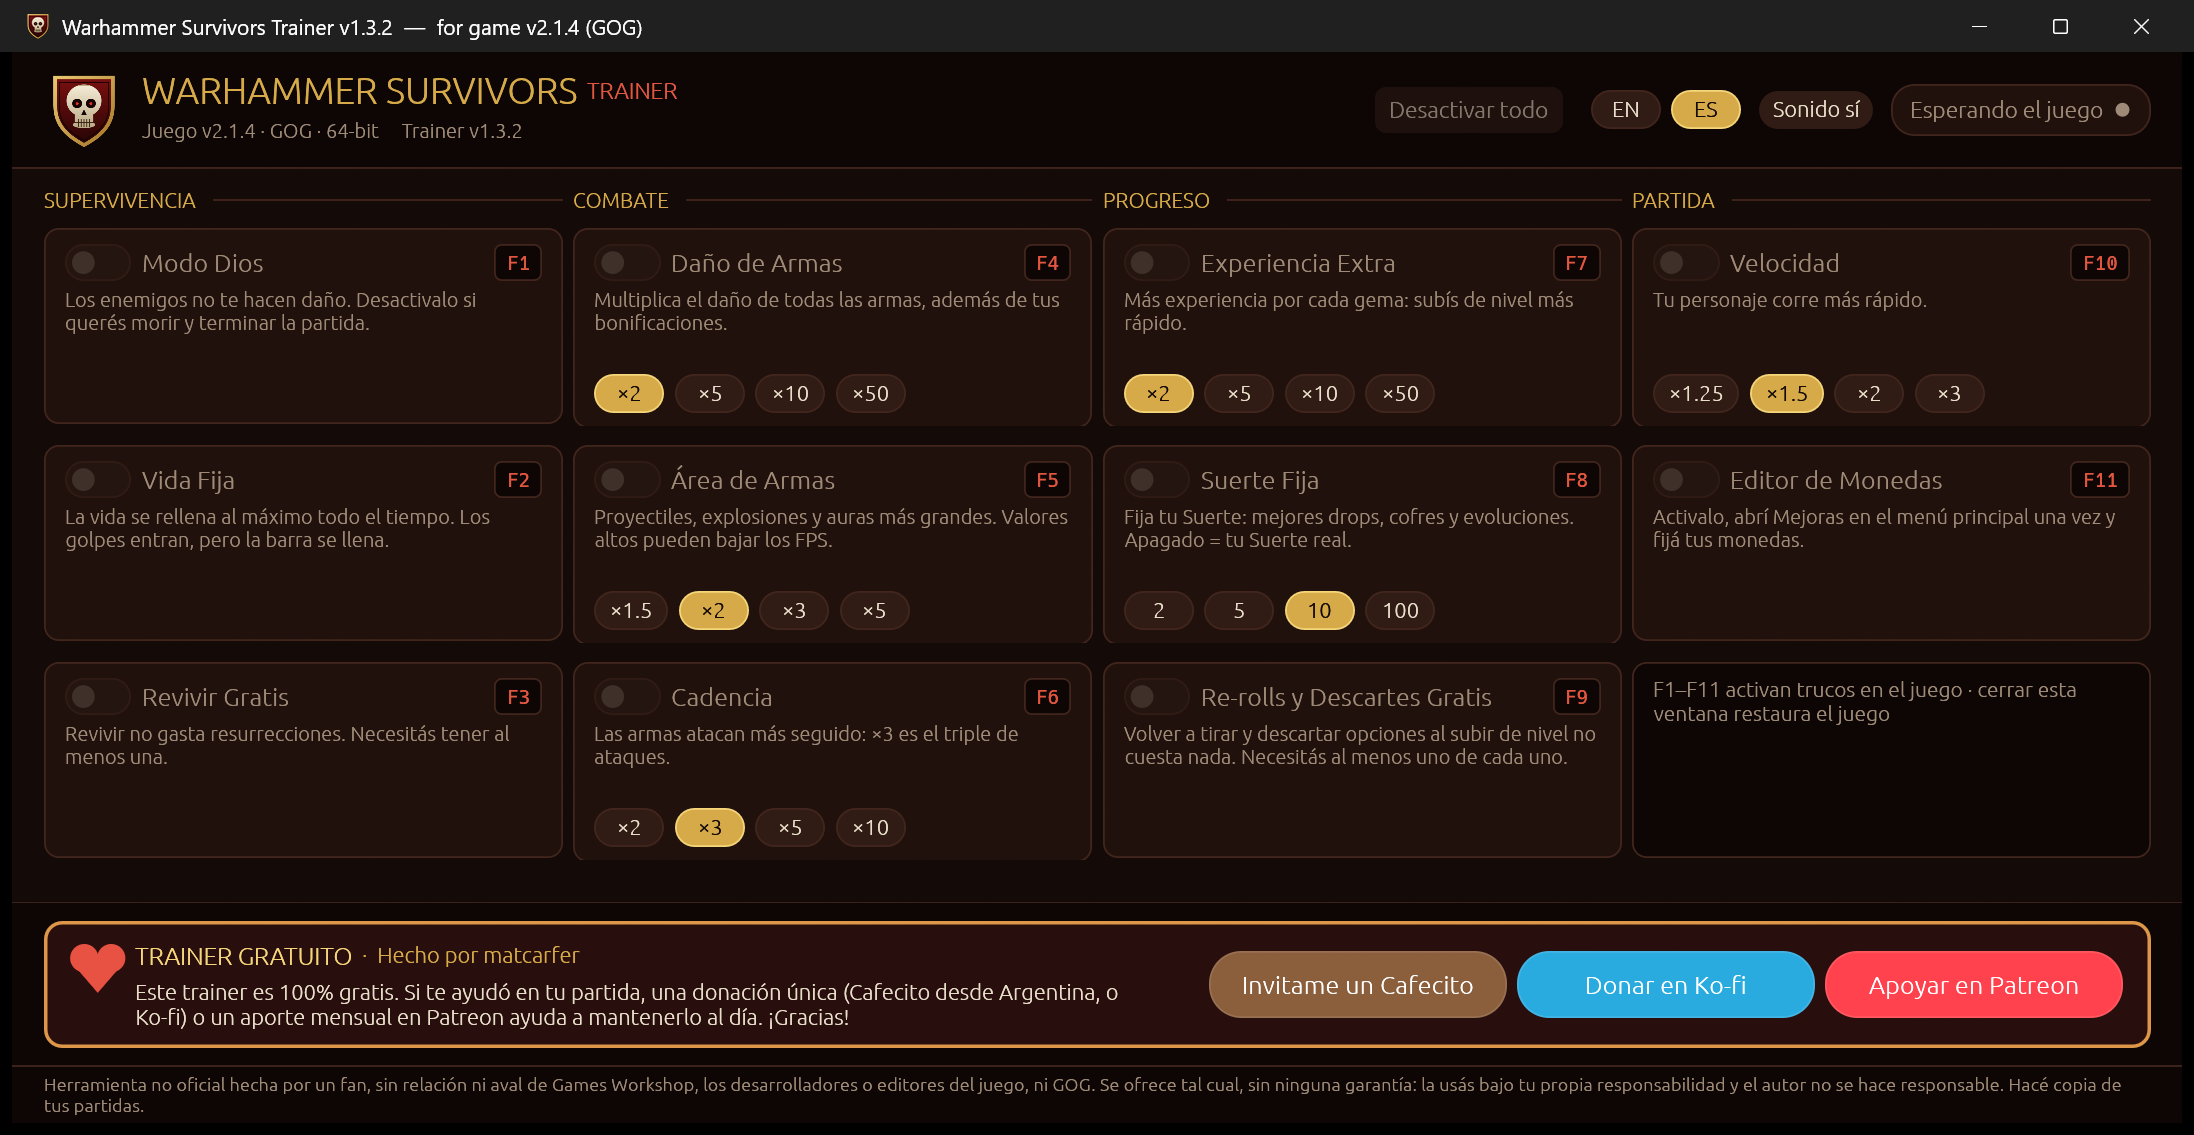
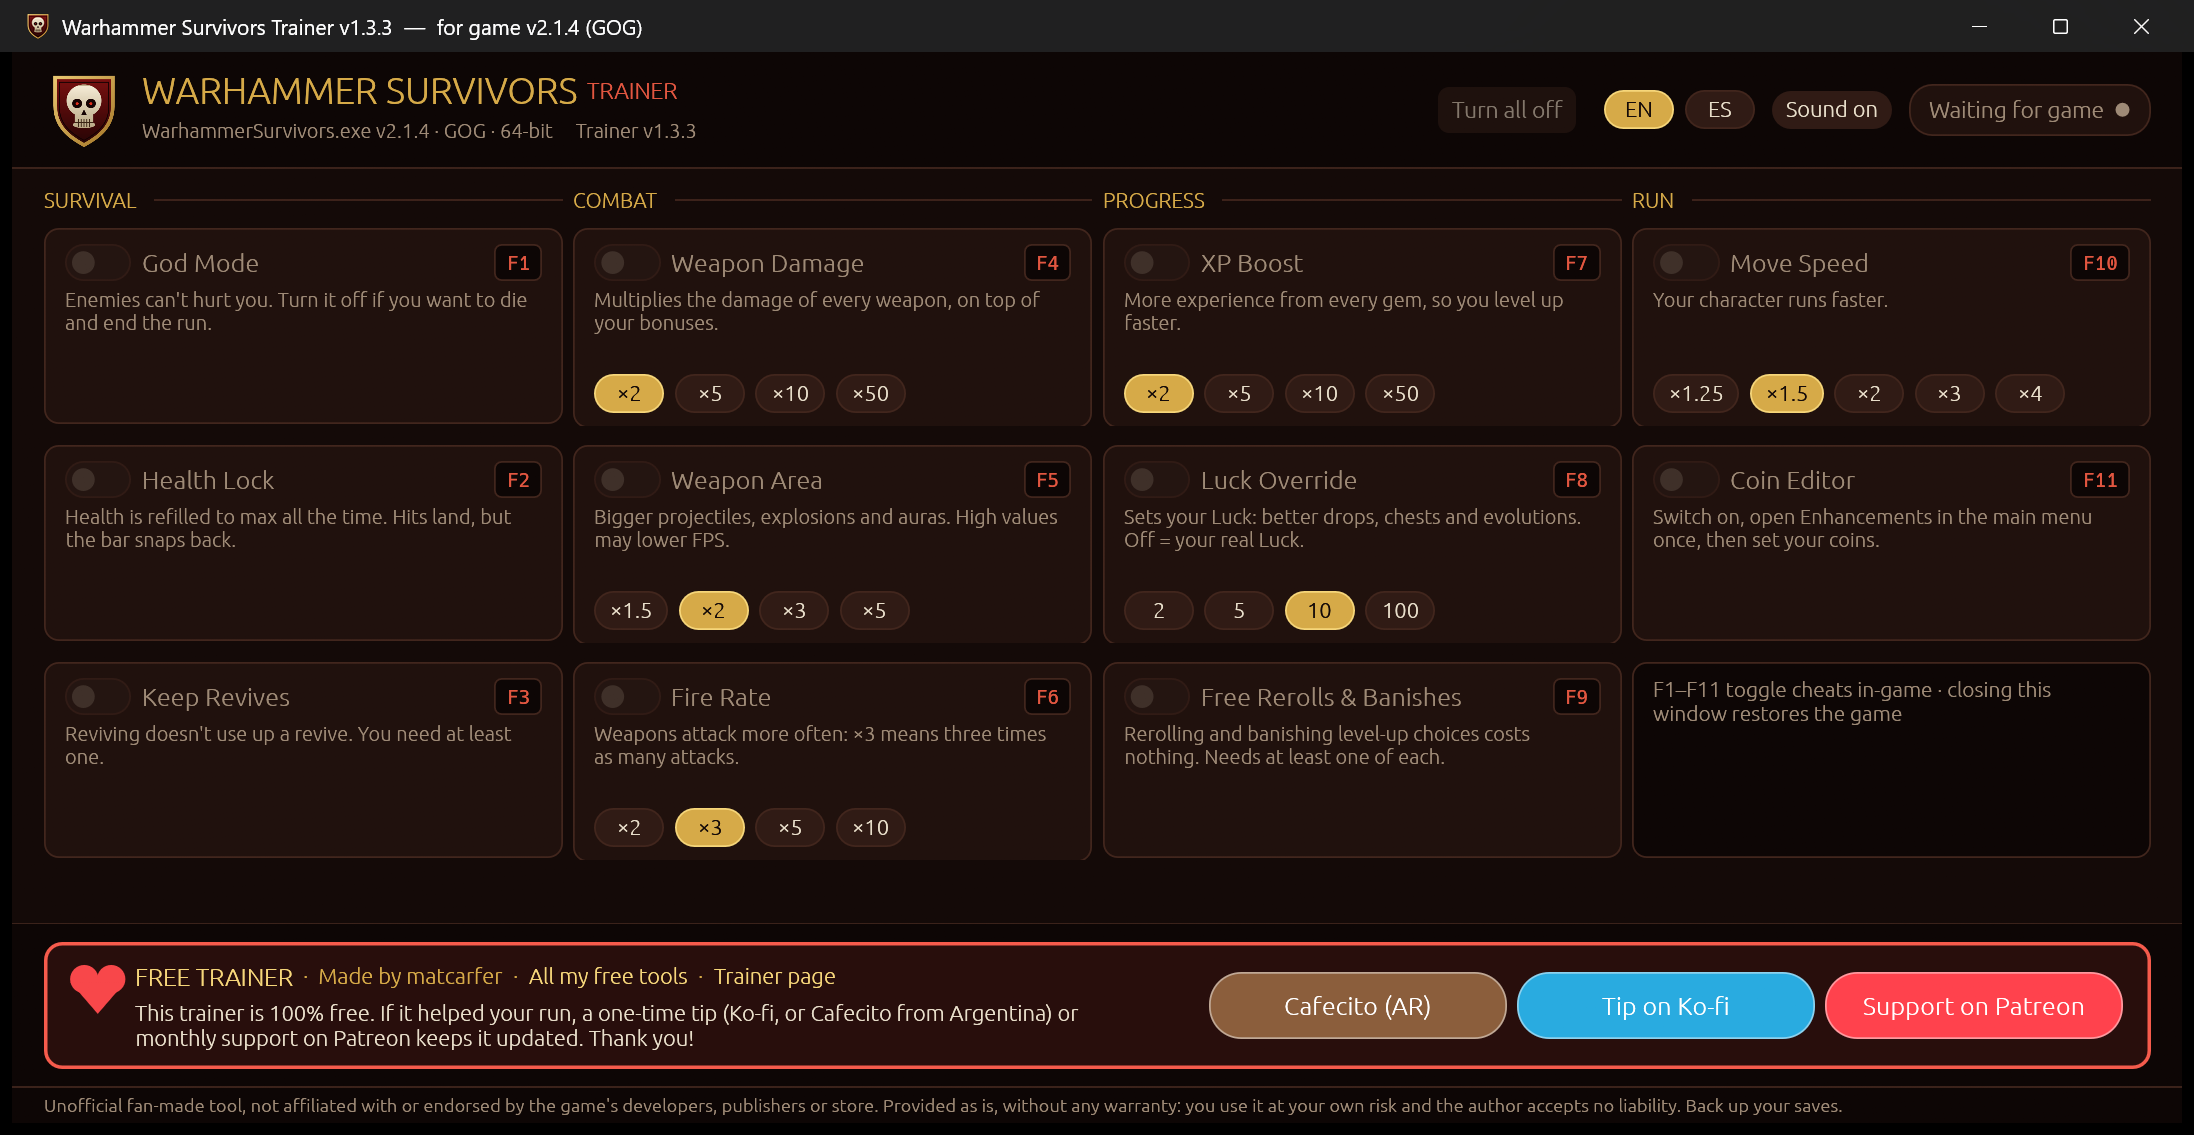
Warhammer Survivors Trainer v1.3.3

diff --git a/README.md b/README.md
@@ -6,11 +6,11 @@
 
 <p align="center">
   <b>Free downloads:</b> Android apps (APK) · Windows utilities · PC game trainers<br>
-  <sub>Descargas gratis: apps para Android (APK) · utilidades para Windows · trainers para juegos de PC</sub>
+  <b>Descargas gratis:</b> apps para Android (APK) · utilidades para Windows · trainers para juegos de PC
 </p>
 
 <p align="center">
-  <a href="https://github.com/matcarfer/library/releases"><b>⬇ All releases</b></a>
+  <a href="https://github.com/matcarfer/library/releases"><b>⬇ All releases · Todas las versiones</b></a>
   &nbsp;·&nbsp;
   <a href="https://cafecito.app/matcarfer"><b>☕ Cafecito (AR)</b></a>
   &nbsp;·&nbsp;
@@ -19,85 +19,116 @@
   <a href="https://www.patreon.com/matcarfer"><b>❤ Patreon</b></a>
 </p>
 
-Everything here is **free**. Each item has its own release: open it, download the file
-under **Assets**, and check the SHA-256 listed in the release notes.
+<p align="center">
+  <a href="#english">English</a> · <a href="#español">Español</a>
+</p>
+
+Each link below downloads the **latest version directly**. Every release lists its
+**SHA-256** and a **VirusTotal** report.<br>
+<sub>Cada link descarga **directamente la última versión**. Cada versión indica su
+**SHA-256** y un informe de **VirusTotal**.</sub>
 
 ---
 
-## 📱 Android apps (APK)
+## 📱 Android apps (APK) · Apps para Android
 
-| App | Version | Download | Description |
+| App | Version · Versión | Download · Descarga | Description · Descripción |
 |---|---|---|---|
-| *Coming soon* | | | |
+| *Coming soon · Próximamente* | | | |
 
-## 🪟 Windows utilities
+## 🪟 Windows utilities · Utilidades para Windows
 
-| Program | Version | Download | Description |
+| Program · Programa | Version · Versión | Download · Descarga | Description · Descripción |
 |---|---|---|---|
-| *Coming soon* | | | |
+| *Coming soon · Próximamente* | | | |
 
-## 🎮 PC game trainers
+## 🎮 PC game trainers · Trainers para juegos de PC
 
-| Trainer | Game version | Version | Download |
+| Trainer | Game · Juego | Version · Versión | Download · Descarga |
 |---|---|---|---|
-| **Warhammer Survivors Trainer** | v2.1.4 · GOG · 64-bit | 1.3.2 | [⬇ Download](https://github.com/matcarfer/library/releases/tag/warhammer-survivors-trainer-v1.3.2) |
+| **Warhammer Survivors Trainer** | WarhammerSurvivors.exe v2.1.4 Â· GOG Â· 64-bit | 1.3.3 | [â¬‡ Download](https://github.com/matcarfer/library/releases/download/warhammer-survivors-trainer-v1.3.3/WarhammerSurvivors-v2.1.4-Trainer-v1.3.3.exe) Â· [VirusTotal](https://www.virustotal.com/gui/file/cddd8b3eb37533b2ec7775524fc4d9477a1dc6c5d9bf66d80bfd76500842a6df) |
 
 <details>
-<summary><b>Warhammer Survivors Trainer</b> — 11 cheats, F1–F11 hotkeys, English/Español</summary>
+<summary><b>Warhammer Survivors Trainer</b> — 11 cheats · F1–F11 · English/Español</summary>
 
 <br>
 <img src="docs/trainers/warhammer-survivors-trainer.png" width="860" alt="Warhammer Survivors Trainer">
 
-God Mode · Health Lock · Keep Revives · Weapon Damage ×2–×50 · Weapon Area ×1.5–×5 ·
+**EN:** God Mode · Health Lock · Keep Revives · Weapon Damage ×2–×50 · Weapon Area ×1.5–×5 ·
 Fire Rate ×2–×10 · XP Boost ×2–×50 · Luck Override · Free Rerolls & Banishes ·
-Move Speed ×1.25–×3 · Coin Editor.
+Move Speed ×1.25–×4 · Coin Editor. Requires **Warhammer Survivors v2.1.4 (GOG, 64-bit)**
+on Windows 10/11. Closing the trainer restores the game.
 
-Requires **Warhammer Survivors v2.1.4 (GOG, 64-bit)** on Windows 10/11. Run the trainer
-before or after the game; closing it restores the game.
+**ES:** Modo Dios · Vida Fija · Revivir Gratis · Daño de Armas ×2–×50 · Área de Armas ×1.5–×5 ·
+Cadencia ×2–×10 · Experiencia Extra ×2–×50 · Suerte Fija · Re-rolls y Descartes Gratis ·
+Velocidad ×1.25–×4 · Editor de Monedas. Requiere **Warhammer Survivors v2.1.4 (GOG, 64 bits)**
+en Windows 10/11. Al cerrar el trainer, el juego vuelve a la normalidad.
+
+More info · Más info: [matcarfer/warhammer-survivors-trainer](https://github.com/matcarfer/warhammer-survivors-trainer)
 </details>
 
 ---
 
-## How to download safely
+## English
 
-- Download only from this page (**Releases**). Copies elsewhere are not official.
-- Compare the file's hash with the one in the release notes:
+### How to download safely
+- Download only from this page. Copies elsewhere are not official.
+- Check the file's **SHA-256** against the release notes:
   ```powershell
   Get-FileHash .\<file> -Algorithm SHA256
   ```
-- Programs are not code-signed: if Windows SmartScreen appears, click
-  **More info → Run anyway**. Trainers may be flagged by antivirus software because they
-  modify a game's memory.
+- Open the **VirusTotal** report linked in each release. Some antivirus engines flag
+  every game trainer because it changes another program's memory.
+- Files are not code-signed: if Windows SmartScreen appears, click
+  **More info → Run anyway**.
 - **Back up your save files** before using a trainer.
 
-## Disclaimer
-
+### Disclaimer
 Unofficial tools made by a fan. Not affiliated with or endorsed by the developers,
 publishers or stores of the games and apps they work with. All trademarks belong to
-their owners. Provided **as is, without any warranty**: you use them at your own risk
-and the author accepts no liability.
+their owners. Provided **as is, without any warranty**: you use them at your own risk and
+the author accepts no liability.
 
-## License
-
+### License
 Freeware, closed source: free to download and use; **redistribution, re-uploading,
 modification and resale are not allowed** — share a link to this page instead.
 See [LICENSE](LICENSE).
 
-## Support
-
+### Support
 Everything is free. If something helped you, **$1 is enough, and any extra is hugely
-appreciated**:
-[Cafecito](https://cafecito.app/matcarfer) (Argentina) ·
+appreciated**: [Cafecito](https://cafecito.app/matcarfer) (Argentina) ·
 [Ko-fi](https://ko-fi.com/matcarfer) (one-time) ·
 [Patreon](https://www.patreon.com/matcarfer) (monthly).
 
 ---
 
-### Español
+## Español
 
-Todo es **gratis**. Cada herramienta tiene su propio *release*: abrilo, descargá el
-archivo en **Assets** y verificá el SHA-256 de las notas. Si Windows muestra
-"Windows protegió tu PC", elegí **Más información → Ejecutar de todas formas**.
-Herramientas no oficiales, sin garantía y bajo tu propia responsabilidad. No está
-permitido redistribuirlas: compartí el link a esta página. Si algo te sirvió, con US$1
-alcanza, y si querés dar más, ¡mucho mejor!
+### Cómo descargar de forma segura
+- Descargá solo desde esta página. Las copias en otros sitios no son oficiales.
+- Compará el **SHA-256** del archivo con el de las notas de la versión:
+  ```powershell
+  Get-FileHash .\<archivo> -Algorithm SHA256
+  ```
+- Abrí el informe de **VirusTotal** de cada versión. Algunos antivirus marcan todos los
+  trainers porque modifican la memoria de otro programa.
+- Los archivos no están firmados digitalmente: si Windows muestra "Windows protegió tu
+  PC", elegí **Más información → Ejecutar de todas formas**.
+- **Hacé una copia de tus partidas guardadas** antes de usar un trainer.
+
+### Aviso
+Herramientas no oficiales hechas por un fan. Sin relación ni aval de los
+desarrolladores, editores o tiendas de los juegos y apps con los que funcionan. Todas
+las marcas pertenecen a sus dueños. Se ofrecen **tal cual, sin ninguna garantía**: las
+usás bajo tu propia responsabilidad y el autor no se hace responsable.
+
+### Licencia
+Gratis y de código cerrado: podés descargarlas y usarlas gratis; **no está permitido
+redistribuirlas, volver a subirlas, modificarlas ni venderlas** — compartí el link a
+esta página. Ver [LICENSE](LICENSE).
+
+### Apoyo
+Todo es gratis. Si algo te sirvió, **con US$1 alcanza, y si querés dar más, ¡mucho
+mejor!**: [Cafecito](https://cafecito.app/matcarfer) (Argentina) ·
+[Ko-fi](https://ko-fi.com/matcarfer) (única vez) ·
+[Patreon](https://www.patreon.com/matcarfer) (mensual).
